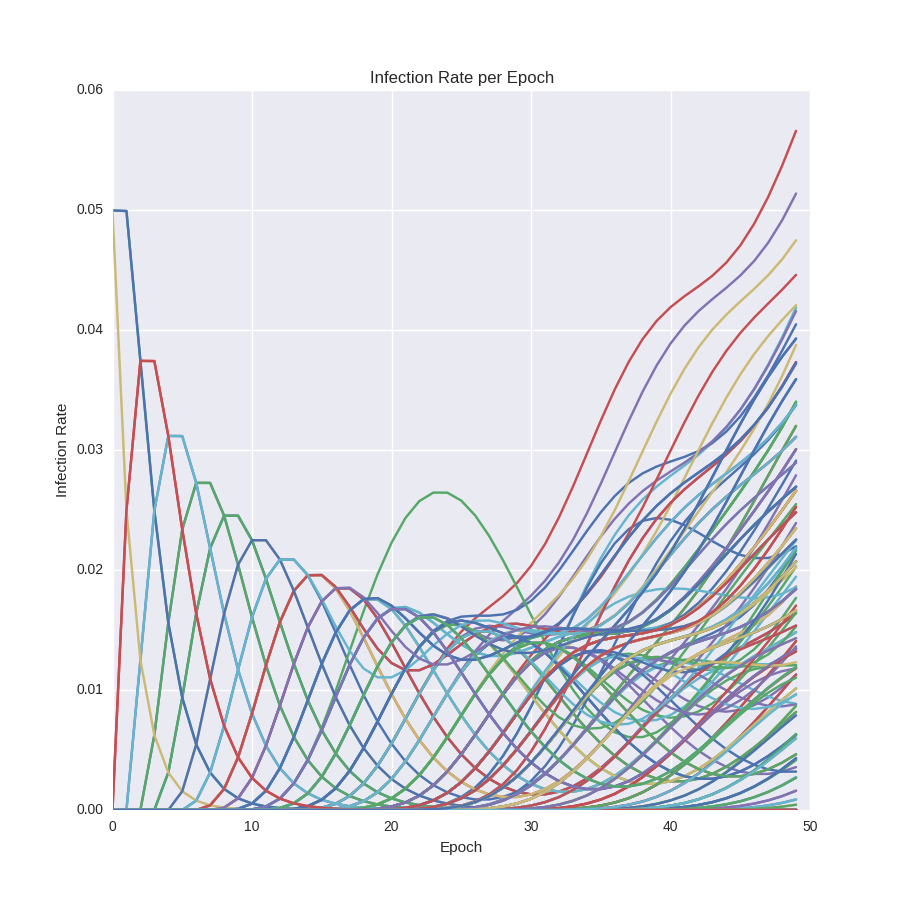
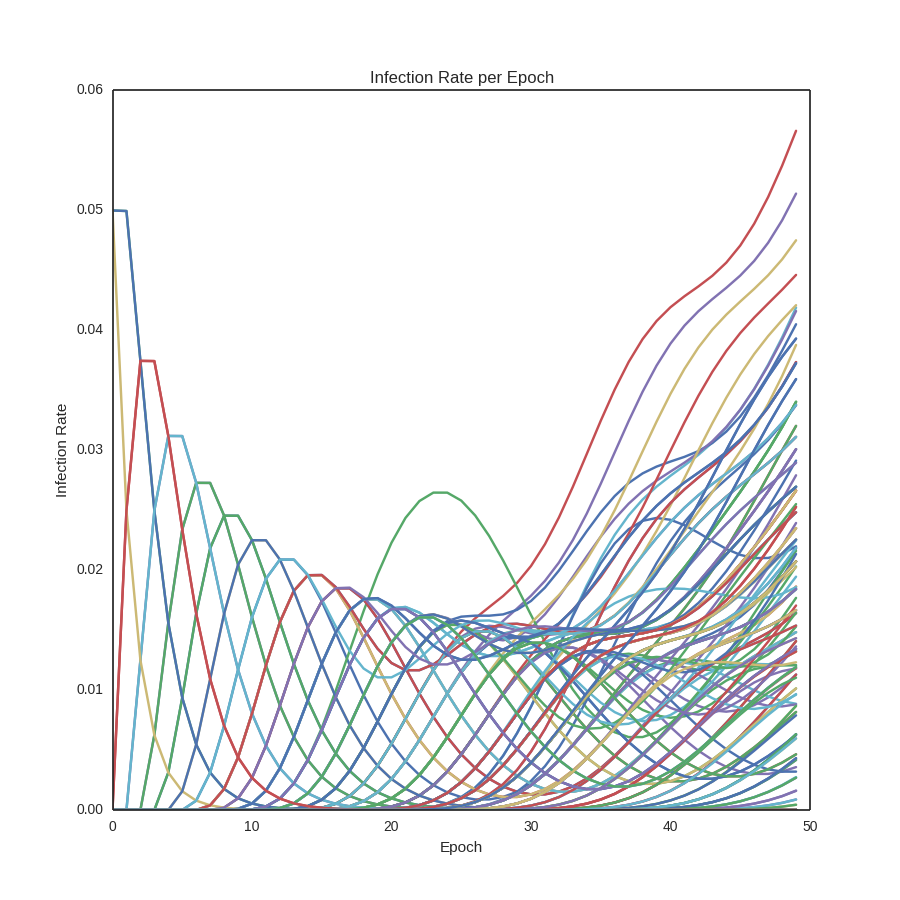
new style

diff --git a/trades.py b/trades.py
@@ -59,7 +59,7 @@ def plot (history):
     plt.title("Infection Rate per Epoch")
     plt.xlabel("Epoch")
     plt.ylabel("Infection Rate")
-    fig.savefig("time_series.png")    
+    fig.savefig("zoom.png")    
 
 def graph (graph, nodes, history):
 
@@ -75,6 +75,6 @@ if __name__ == "__main__":
     T = transmission(G)
     P = np.zeros(len(N))
     P[160] = .1 # some place gets sick
-    H = iterpulse(T, P, 200)  
+    H = iterpulse(T, P, 50)  
     plot(H) 
-    graph(G, N, H)
+    #graph(G, N, H)
